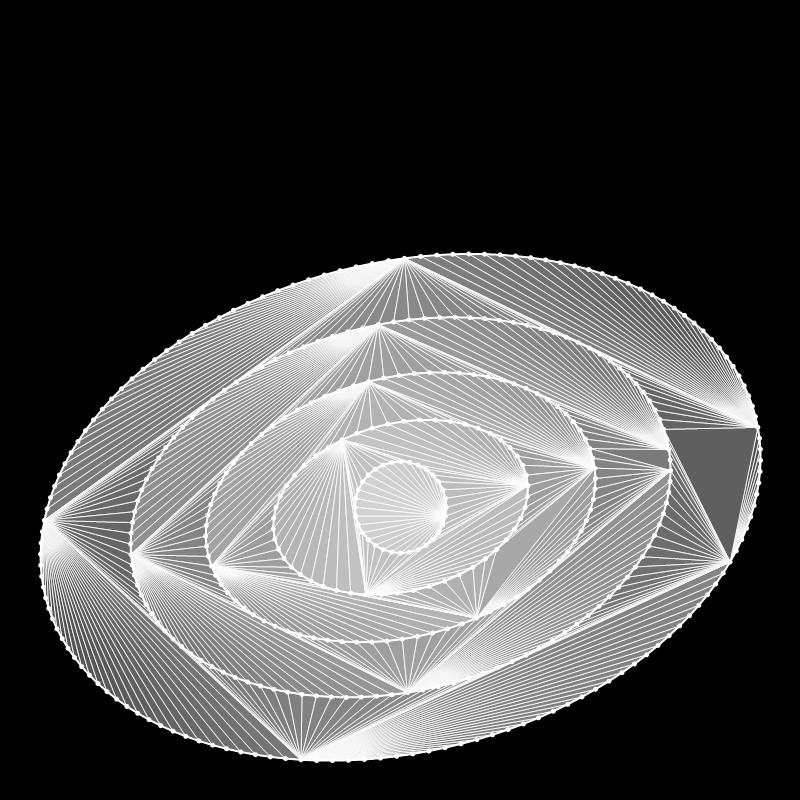
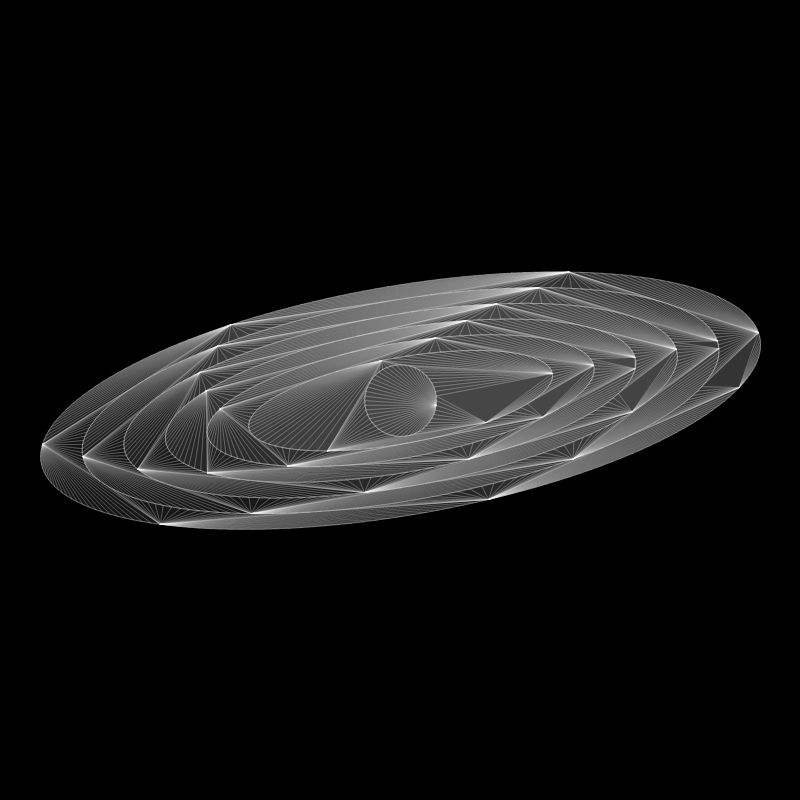
Update TriangleGarden demo rings and README example

diff --git a/TriangleGarden.Demo/Program.cs b/TriangleGarden.Demo/Program.cs
@@ -12,6 +12,8 @@ namespace TriangleGarden.Demo
     {
         private const int CanvasSize = 800;
         private const int Margin = 40;
+        private const double Foreshorten = 0.65;
+        private const double OrbitTilt = 0.30;
 
         [SupportedOSPlatform("windows")]
         private static void Main()
@@ -20,19 +22,19 @@ namespace TriangleGarden.Demo
             var constraints = BuildSegments(points.Count);
             var input       = new TriangleGardenInput(points, constraints);
 
-            var slowResult = TriangleGardenTriangulator.Run(in input, validate: true);
-            var slowPath   = Path.GetFullPath("triangle_garden_slow.png");
-            Render(slowResult.Points, slowResult.Triangles, constraints, slowPath);
+            //var slowResult = TriangleGardenTriangulator.Run(in input, validate: true);
+            //var slowPath   = Path.GetFullPath("triangle_garden_slow.png");
+            //Render(slowResult.Points, slowResult.Triangles, constraints, slowPath);
 
             var fastResult = TriangleGardenTriangulator.RunFast(in input, validate: true);
             var fastPath   = Path.GetFullPath("triangle_garden_fast.png");
             Render(fastResult.Points, fastResult.Triangles, constraints, fastPath);
 
-            Console.WriteLine("Slow triangulation:");
-            Console.WriteLine($"  Vertices:  {slowResult.Points.Count}");
-            Console.WriteLine($"  Triangles: {slowResult.Triangles.Count}");
-            Console.WriteLine($"  Image:     {slowPath}");
-            Console.WriteLine();
+            //Console.WriteLine("Slow triangulation:");
+            //Console.WriteLine($"  Vertices:  {slowResult.Points.Count}");
+            //Console.WriteLine($"  Triangles: {slowResult.Triangles.Count}");
+            //Console.WriteLine($"  Image:     {slowPath}");
+            //Console.WriteLine();
             Console.WriteLine("Fast triangulation:");
             Console.WriteLine($"  Vertices:  {fastResult.Points.Count}");
             Console.WriteLine($"  Triangles: {fastResult.Triangles.Count}");
@@ -63,13 +65,26 @@ namespace TriangleGarden.Demo
 
             const double cx = 0.0;
             const double cy = 0.0;
-            const double tilt = 0.25;
 
-            AddEllipse(count: 140, cx: cx, cy: cy, rx: 48.0, ry: 32.0, rotation: tilt);
-            AddEllipse(count: 110, cx: cx, cy: cy, rx: 36.0, ry: 24.0, rotation: tilt);
-            AddEllipse(count: 80, cx: cx, cy: cy, rx: 26.0, ry: 17.0, rotation: tilt);
-            AddEllipse(count: 50, cx: cx, cy: cy, rx: 17.0, ry: 11.0, rotation: tilt);
-            AddEllipse(count: 32, cx: cx, cy: cy, rx: 6.0, ry: 6.0, rotation: 0.0);
+            const double sunScreenRadius = 5.0;
+            double sunRx = sunScreenRadius;
+            double sunRy = sunScreenRadius / Foreshorten;
+
+            var rings = new (int count, double rx, double ry, double rot)[]
+            {
+                (180, 52.0, 24.0, OrbitTilt),
+                (160, 46.0, 21.0, OrbitTilt),
+                (140, 40.0, 18.0, OrbitTilt),
+                (120, 34.0, 15.0, OrbitTilt),
+                (100, 28.0, 12.0, OrbitTilt),
+                ( 80, 22.0,  9.0, OrbitTilt),
+                ( 48, sunRx, sunRy, 0.0)
+            };
+
+            foreach (var r in rings)
+            {
+                AddEllipse(r.count, cx, cy, r.rx, r.ry, r.rot);
+            }
 
             return points;
         }
@@ -78,7 +93,7 @@ namespace TriangleGarden.Demo
         {
             var segments = new List<(int A, int B)>();
 
-            int[] ringCounts = { 140, 110, 80, 50, 32 };
+            int[] ringCounts = { 180, 160, 140, 120, 100, 80, 48 };
 
             int offset = 0;
             foreach (int count in ringCounts)
@@ -122,41 +137,43 @@ namespace TriangleGarden.Demo
                 if (p.Y > maxY) maxY = p.Y;
             }
 
-            double spanX = maxX - minX;
-            double spanY = maxY - minY;
-            double scale = (CanvasSize - 2 * Margin) / Math.Max(spanX, spanY);
-
-            PointF Map(RealPoint2D p) => new(
-                (float)(Margin + (p.X - minX) * scale),
-                (float)(CanvasSize - Margin - (p.Y - minY) * scale));
-
             double centerX = 0.5 * (minX + maxX);
             double centerY = 0.5 * (minY + maxY);
+            double halfX = 0.5 * (maxX - minX);
+            double halfY = 0.5 * (maxY - minY);
+
+            double effectiveHalf = Math.Max(halfX, halfY * Foreshorten);
+            double scale = (CanvasSize - 2 * Margin) / (2.0 * effectiveHalf);
+
+            const double verticalCenterBias = 0.0;
+
+            PointF Map(RealPoint2D p) => new(
+                (float)(CanvasSize * 0.5 + (p.X - centerX) * scale),
+                (float)(CanvasSize * (0.5 - verticalCenterBias) - (p.Y - centerY) * scale * Foreshorten));
+
+            double maxRadius = 0.0;
+            foreach (var pt in points)
+            {
+                double dx = pt.X - centerX;
+                double dy = pt.Y - centerY;
+                double r = Math.Sqrt(dx * dx + dy * dy);
+                if (r > maxRadius) maxRadius = r;
+            }
+            if (maxRadius <= 0) maxRadius = 1.0;
 
             using var bmp = new Bitmap(CanvasSize, CanvasSize);
             using var g   = Graphics.FromImage(bmp);
             g.SmoothingMode = SmoothingMode.AntiAlias;
             g.Clear(Color.Black);
 
-            using var triStrokePen  = new Pen(Color.FromArgb(230, 255, 255, 255), 1.0f);
-            using var constraintPen = new Pen(Color.FromArgb(255, 255, 255, 255), 2.0f);
-            using var vertexBrush   = new SolidBrush(Color.FromArgb(255, 255, 255, 255));
+            using var triStrokePen  = new Pen(Color.FromArgb(60, 255, 255, 255), 0.5f);
+            using var triWirePen    = new Pen(Color.FromArgb(40, 255, 255, 255), 0.4f);
+            using var constraintPen = new Pen(Color.FromArgb(80, 220, 220, 220), 1.0f);
+            using var vertexBrush   = new SolidBrush(Color.FromArgb(0, 255, 255, 255));
 
-            double maxRadius = 0.0;
-            foreach (var tri in triangles)
-            {
-                var pa = points[tri.A];
-                var pb = points[tri.B];
-                var pc = points[tri.C];
-
-                double cxTri = (pa.X + pb.X + pc.X) / 3.0;
-                double cyTri = (pa.Y + pb.Y + pc.Y) / 3.0;
-                double dx = cxTri - centerX;
-                double dy = cyTri - centerY;
-                double r  = Math.Sqrt(dx * dx + dy * dy);
-                if (r > maxRadius) maxRadius = r;
-            }
-            if (maxRadius <= 0) maxRadius = 1.0;
+            double rx = halfX;
+            double ry = halfY;
+            var lightDir = Normalize3(0.4, 0.6, 1.0);
 
             foreach (var tri in triangles)
             {
@@ -167,14 +184,28 @@ namespace TriangleGarden.Demo
                 double cxTri = (pa.X + pb.X + pc.X) / 3.0;
                 double cyTri = (pa.Y + pb.Y + pc.Y) / 3.0;
 
+                double ux = (cxTri - centerX) / rx;
+                double uy = (cyTri - centerY) / ry;
+                double r2 = ux * ux + uy * uy;
+
+                double uz = 0.0;
+                if (r2 <= 1.0)
+                {
+                    uz = Math.Sqrt(1.0 - r2);
+                }
+
+                var normal = Normalize3(ux, uy, uz);
+
+                double ambient = 0.40;
+                double diffuse = 0.85 * Math.Max(0.0, Dot3(normal, lightDir));
+                double brightness = ambient + diffuse;
                 double dx = cxTri - centerX;
                 double dy = cyTri - centerY;
-                double r  = Math.Sqrt(dx * dx + dy * dy) / maxRadius;
+                double rNorm = Math.Sqrt(dx * dx + dy * dy) / maxRadius;
+                brightness *= (1.0 - 0.25 * rNorm);
+                brightness = Math.Clamp(brightness, 0.0, 1.0);
 
-                double brightness = 0.85 - 0.55 * r;
-                brightness = Math.Clamp(brightness, 0.30, 0.90);
-
-                var fillColor = FromGray(brightness);
+                var fillColor = FromGray(brightness, alpha: 70);
                 using var fillBrush = new SolidBrush(fillColor);
 
                 var a = Map(pa);
@@ -183,7 +214,7 @@ namespace TriangleGarden.Demo
                 var poly = new[] { a, b, c };
 
                 g.FillPolygon(fillBrush, poly);
-                g.DrawPolygon(triStrokePen, poly);
+                g.DrawPolygon(triWirePen, poly);
             }
 
             foreach (var seg in constraints)
@@ -193,14 +224,25 @@ namespace TriangleGarden.Demo
                 g.DrawLine(constraintPen, p1, p2);
             }
 
-            const float rVertex = 2.5f;
-            foreach (var pt in points)
-            {
-                var p = Map(pt);
-                g.FillEllipse(vertexBrush, p.X - rVertex, p.Y - rVertex, rVertex * 2, rVertex * 2);
-            }
+            // Vertices omitted for a cleaner shaded look
+            // const float rVertex = 2.5f;
+            // foreach (var pt in points)
+            // {
+            //     var p = Map(pt);
+            //     g.FillEllipse(vertexBrush, p.X - rVertex, p.Y - rVertex, rVertex * 2, rVertex * 2);
+            // }
 
             bmp.Save(path, System.Drawing.Imaging.ImageFormat.Png);
+
+            static (double x, double y, double z) Normalize3(double x, double y, double z)
+            {
+                double len = Math.Sqrt(x * x + y * y + z * z);
+                if (len <= 0.0) return (0.0, 0.0, 0.0);
+                return (x / len, y / len, z / len);
+            }
+
+            static double Dot3((double x, double y, double z) a, (double x, double y, double z) b)
+                => a.x * b.x + a.y * b.y + a.z * b.z;
         }
 
         private static Color FromGray(double value, int alpha = 255)

diff --git a/README.md b/README.md
@@ -104,9 +104,8 @@ All of this is still work in progress: the fast-path classifiers and PSLG triang
 - Legality: constraints are always honored; new edges may not cross existing segments; triangles with interior points are rejected; zero-area triangles are discarded; both orientations are tried per edge to cover both sides.
 - Validation: `TriangleGardenValidator` runs combinatorial checks (edge manifoldness, constraint usage) plus an Euler face count (outer boundary + holes) to ensure the output is a complete triangulation of the input PSLG.
 
-![TriangleGarden nested houses](triangle_garden.png)
-![TriangleGarden star hub](triangle_garden_star.png)
 ![TriangleGarden fast orbit fill](triangle_garden_fast.png)
+Triangles: 1474 • Vertices: 828
 ## Building and Running
 
 - Build: `dotnet build Erratri.sln -c Release`
